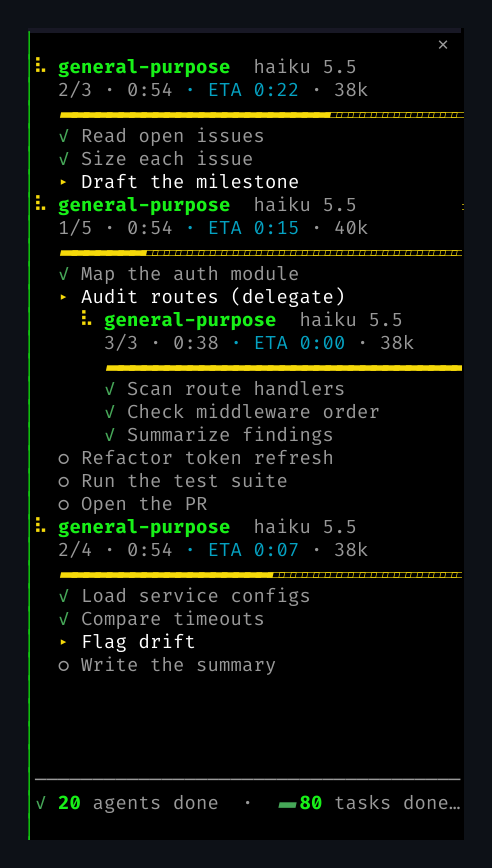
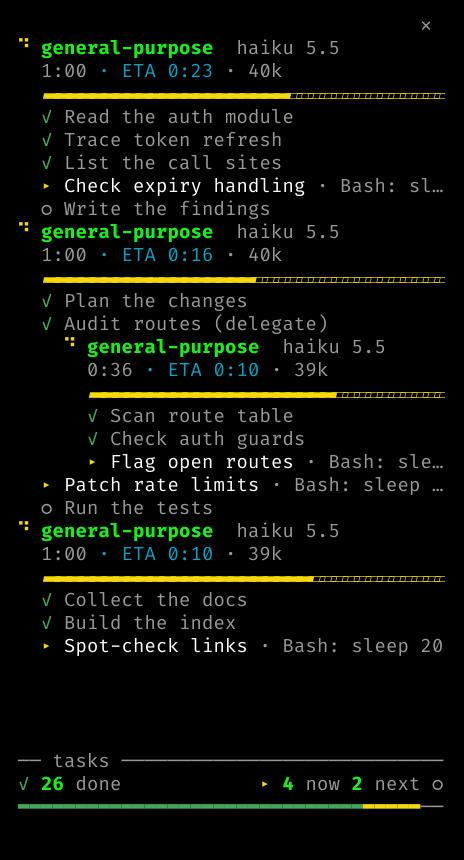
chore(release): 1.0.0 with new real screenshots

diff --git a/README.md b/README.md
@@ -21,9 +21,9 @@
 
 <br>
 
-<img src="assets/hero.png" alt="subagents-panel mid-run: three subagents with live progress bars, ETAs and token counts; one delegates a task to a child agent drawn under that task" width="420">
+<img src="assets/hero.png" alt="subagents-panel mid-run: three subagents with live progress bars, ETAs and token counts; one delegates a task to a child agent drawn under that task; the footer shows the session task timeline" width="420">
 
-<sub>Real screenshot, not a mockup. Three agents in parallel; the middle one delegated "Audit routes" to a child agent.</sub>
+<sub>Real screenshot, not a mockup. Three agents in parallel; the middle one delegated "Audit routes" to a child agent. Footer: 26 tasks done this session, 4 running now, 2 up next.</sub>
 
 </div>
 
@@ -52,19 +52,20 @@ Restart Claude Code. The next subagent opens the panel on the right.
 
 ## Anatomy of a card
 
-<img src="assets/plans.png" alt="One real agent card" width="380" align="right">
+<img src="assets/plans.png" alt="One real agent card, with a child agent nested under the task that launched it" width="380" align="right">
 
 ```
 ⠼ general-purpose  haiku 5.5      spinner · agent type · model
-  0:54 · ETA 0:15 · 40k           elapsed · ETA · context
+  1:00 · ETA 0:16 · 40k           elapsed · ETA · context
   ▰▰▰▰▰▰▱▱▱▱▱▱▱▱▱▱▱▱▱▱▱▱▱▱▱       yellow while running, green when done
-  ✓ Map the auth module           done
-  ▸ Audit routes (delegate)       current task
+  ✓ Plan the changes              done
+  ✓ Audit routes (delegate)       done; its child is still working:
       ⠧ general-purpose  haiku    a child agent, nested under
-        0:38 · 38k                the task that spawned it
-  ○ Refactor token refresh        up next
+        0:36 · ETA 0:10 · 39k     the task that spawned it
+  ▸ Patch rate limits · Bash: …   current task + live tool call
+  ○ Run the tests                 up next
 ── tasks ─────────────────────    the footer:
-✓ 18 done   ▸ 3 now   9 next ○    session task timeline,
+✓ 26 done   ▸ 4 now   2 next ○    session task timeline,
 ━━━━━━━━━━━━━━━━━━━━━━━━━━━━━━    done · now · next
 ▼ 2 more agents not shown         cards that didn't fit
 ⚠ scan repo  quiet 2:30           needs a look (click it)
@@ -130,7 +131,7 @@ sequenceDiagram
 | File | Lines | What's in it |
 | --- | --: | --- |
 | [`hooks/model.ts`](hooks/model.ts) | 346 | Pure logic: tree, sort, ETA, ping schedule, timeline, alerts. No I/O, fully unit-tested |
-| [`hooks/register.tsx`](hooks/register.tsx) | 553 | The seven hooks and the JSX the panel draws |
+| [`hooks/register.tsx`](hooks/register.tsx) | 558 | The seven hooks and the JSX the panel draws |
 | [`types/index.d.ts`](types/index.d.ts) | 54 | The state contract: `Run`, `Todo` |
 
 Zero runtime dependencies: every import is from Claude Code itself. No background process, no network, no files written. State lives in the session (`$.state`) and dies with it.
@@ -141,6 +142,7 @@ What's verified, and what isn't:
 
 - ✅ **Plans, progress, ETA, tokens, nesting, sorting, cleanup, footer**: verified in live sessions with parallel and nested agents, plus 28 unit and render tests.
 - ⚠ **Stop** uses `TaskStop` through the mod's tool-call API, which isn't a documented mod surface. If Claude Code refuses it, a toast says why.
+- ⚠ **Needs-attention alerts** (quiet or failed agents) are covered by tests, not yet seen in a live session.
 - ⚠ **Status pings** (`$.session.send`) haven't been confirmed delivered in live testing yet. A ping that fails now says so in a toast, with the reason.
 - **ETAs are estimates.** An agent's guess can be wrong; the panel shows it, it doesn't vouch for it.
 - **Auto-open needs width.** Claude Code only opens a side panel by itself on a terminal ≥ 144 columns (≥ 110 once you've opened it by hand). Narrower, use `/subagents`.
